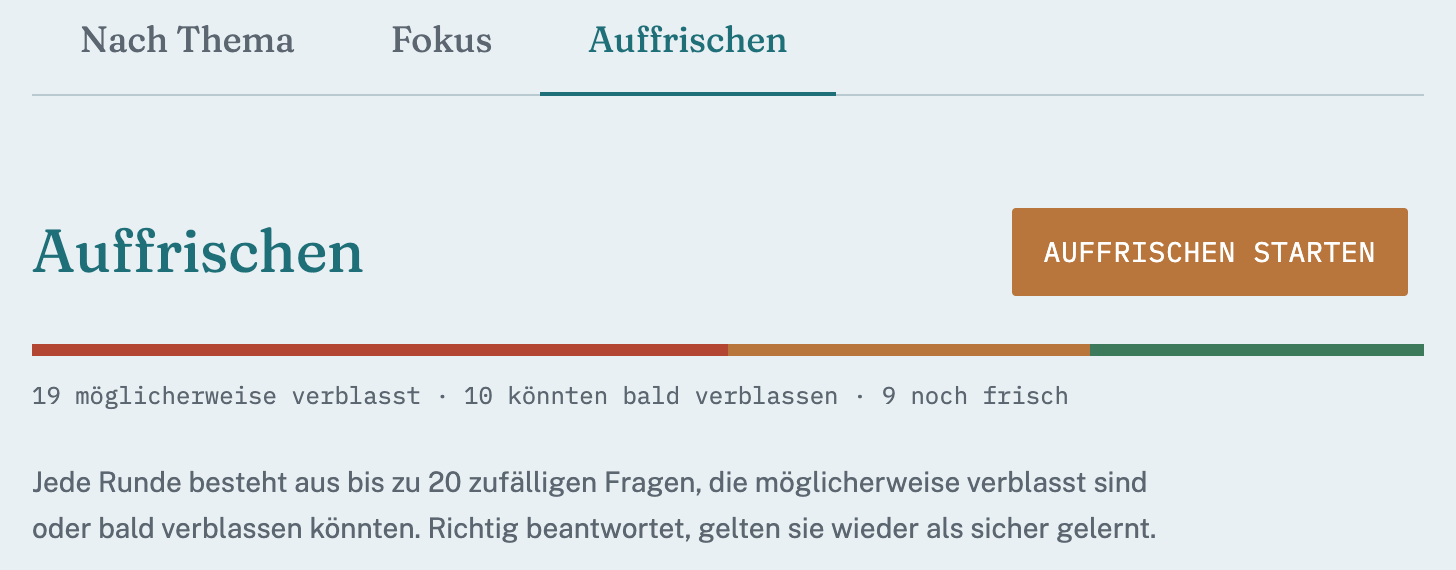
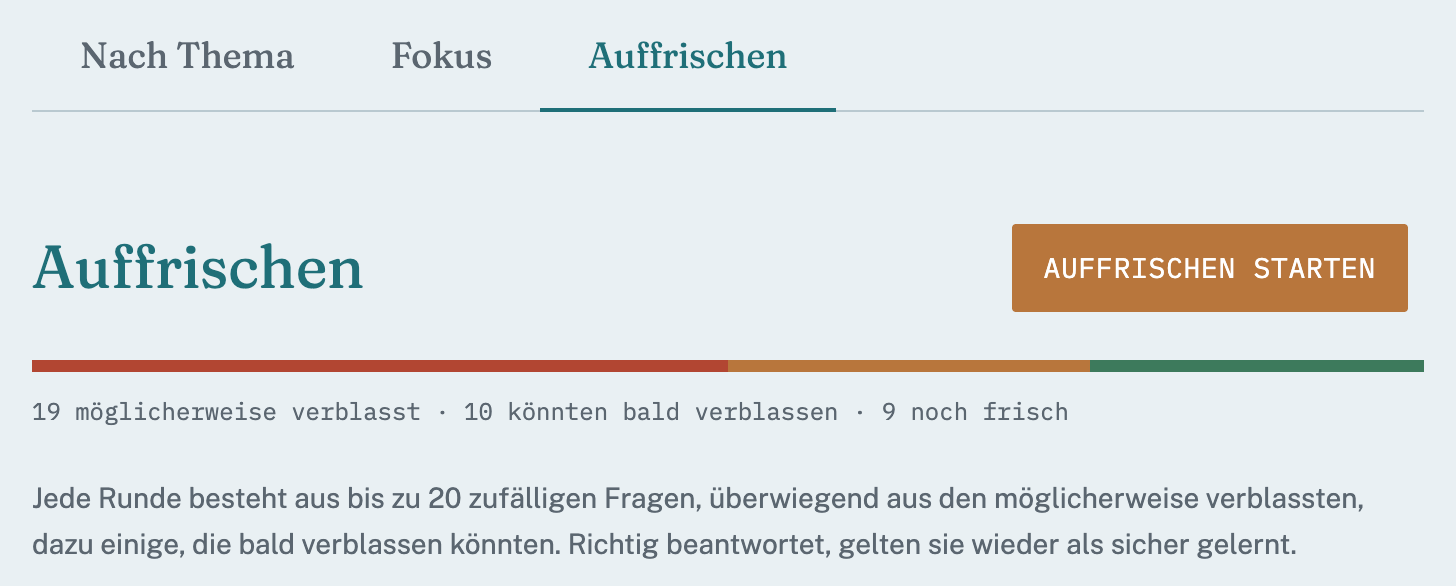
Regenerate the Postman collection, refresh the Lernmodi screenshot
The postman-collection check failed: the refresh endpoint's docstring changed with the
70 % rule and the generated collection was not regenerated. The screenshot now shows
the current explanation text.

diff --git a/frontend/src/pages/LandingPage.tsx b/frontend/src/pages/LandingPage.tsx
@@ -54,7 +54,7 @@ const SCREENSHOTS = [
   {
     src: '/screenshots/lernstand.png',
     width: 1456,
-    height: 570,
+    height: 586,
     title: '4. Drei Lernmodi',
     text: 'Lerne nach Thema, im Fokus deiner Stern-Themen oder frische Fragen auf, die bald verblassen könnten – mit Überblick, wie viele noch frisch sind.',
     alt: 'Screenshot: Die drei Reiter Nach Thema, Fokus und Auffrischen. Der Bereich Auffrischen zeigt die Schaltfläche „Auffrischen starten“, einen Balken und die Zahlen zu möglicherweise verblassten, bald verblassenden und noch frischen Fragen.',
